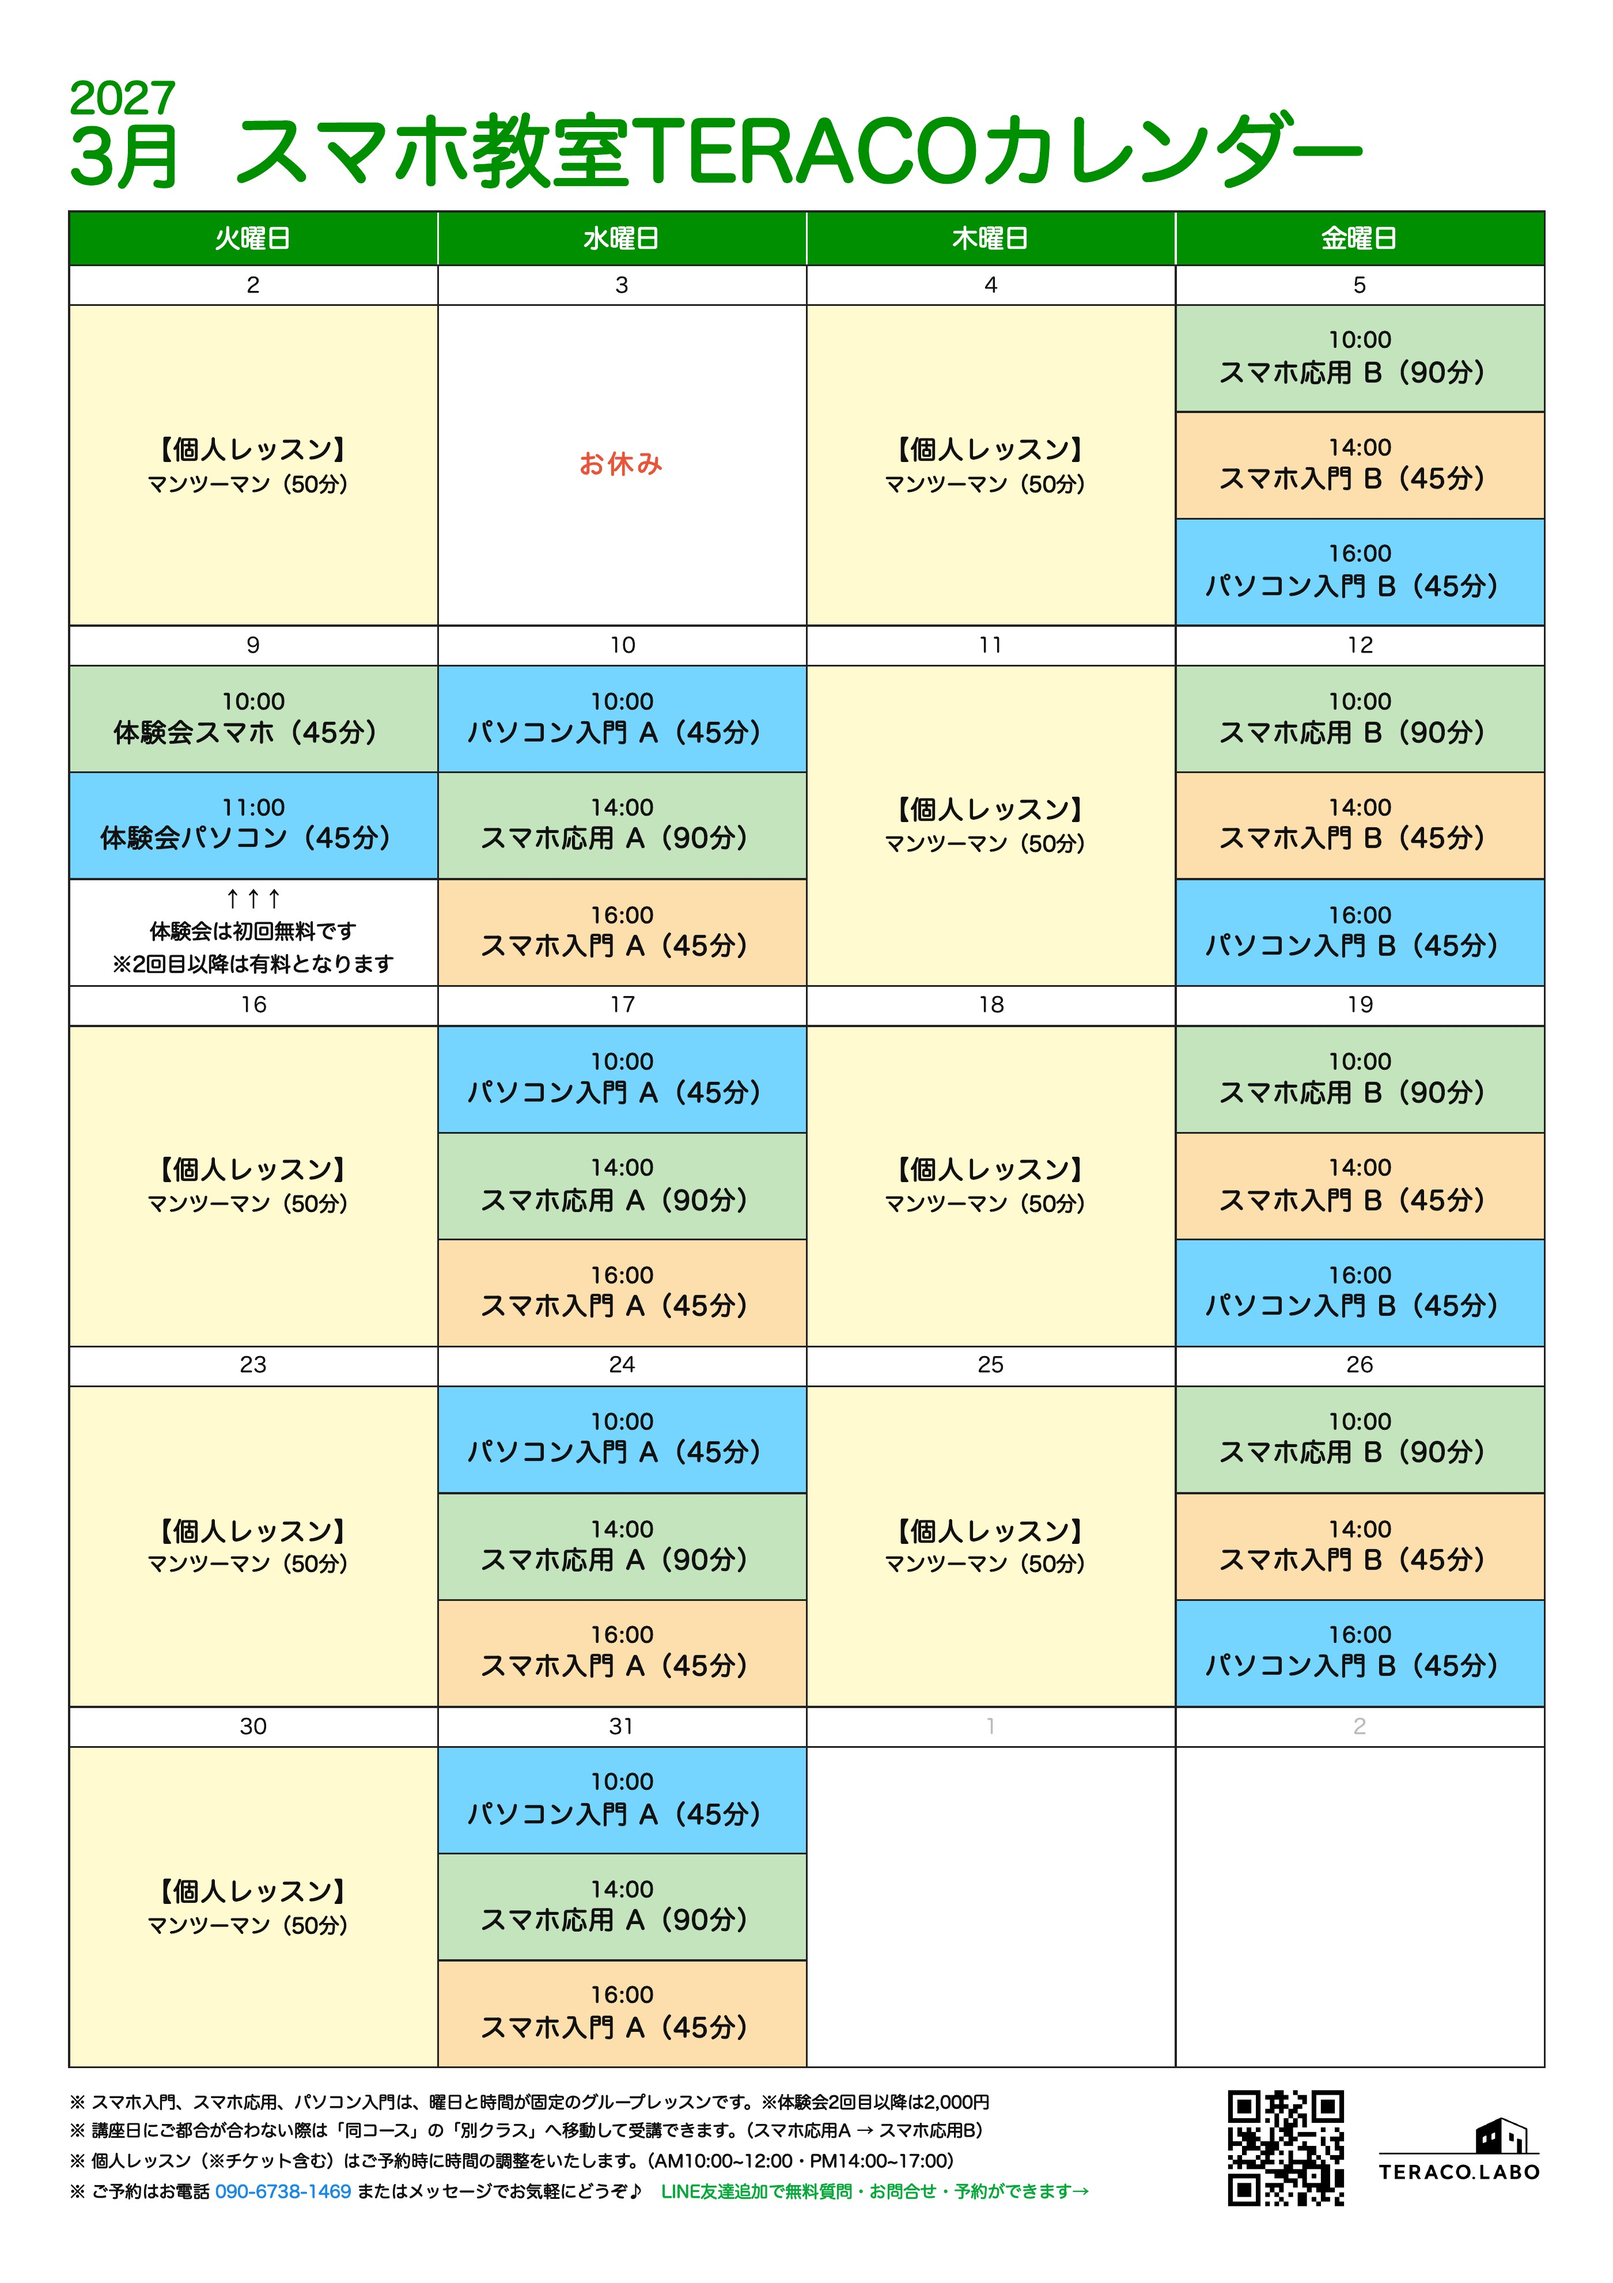
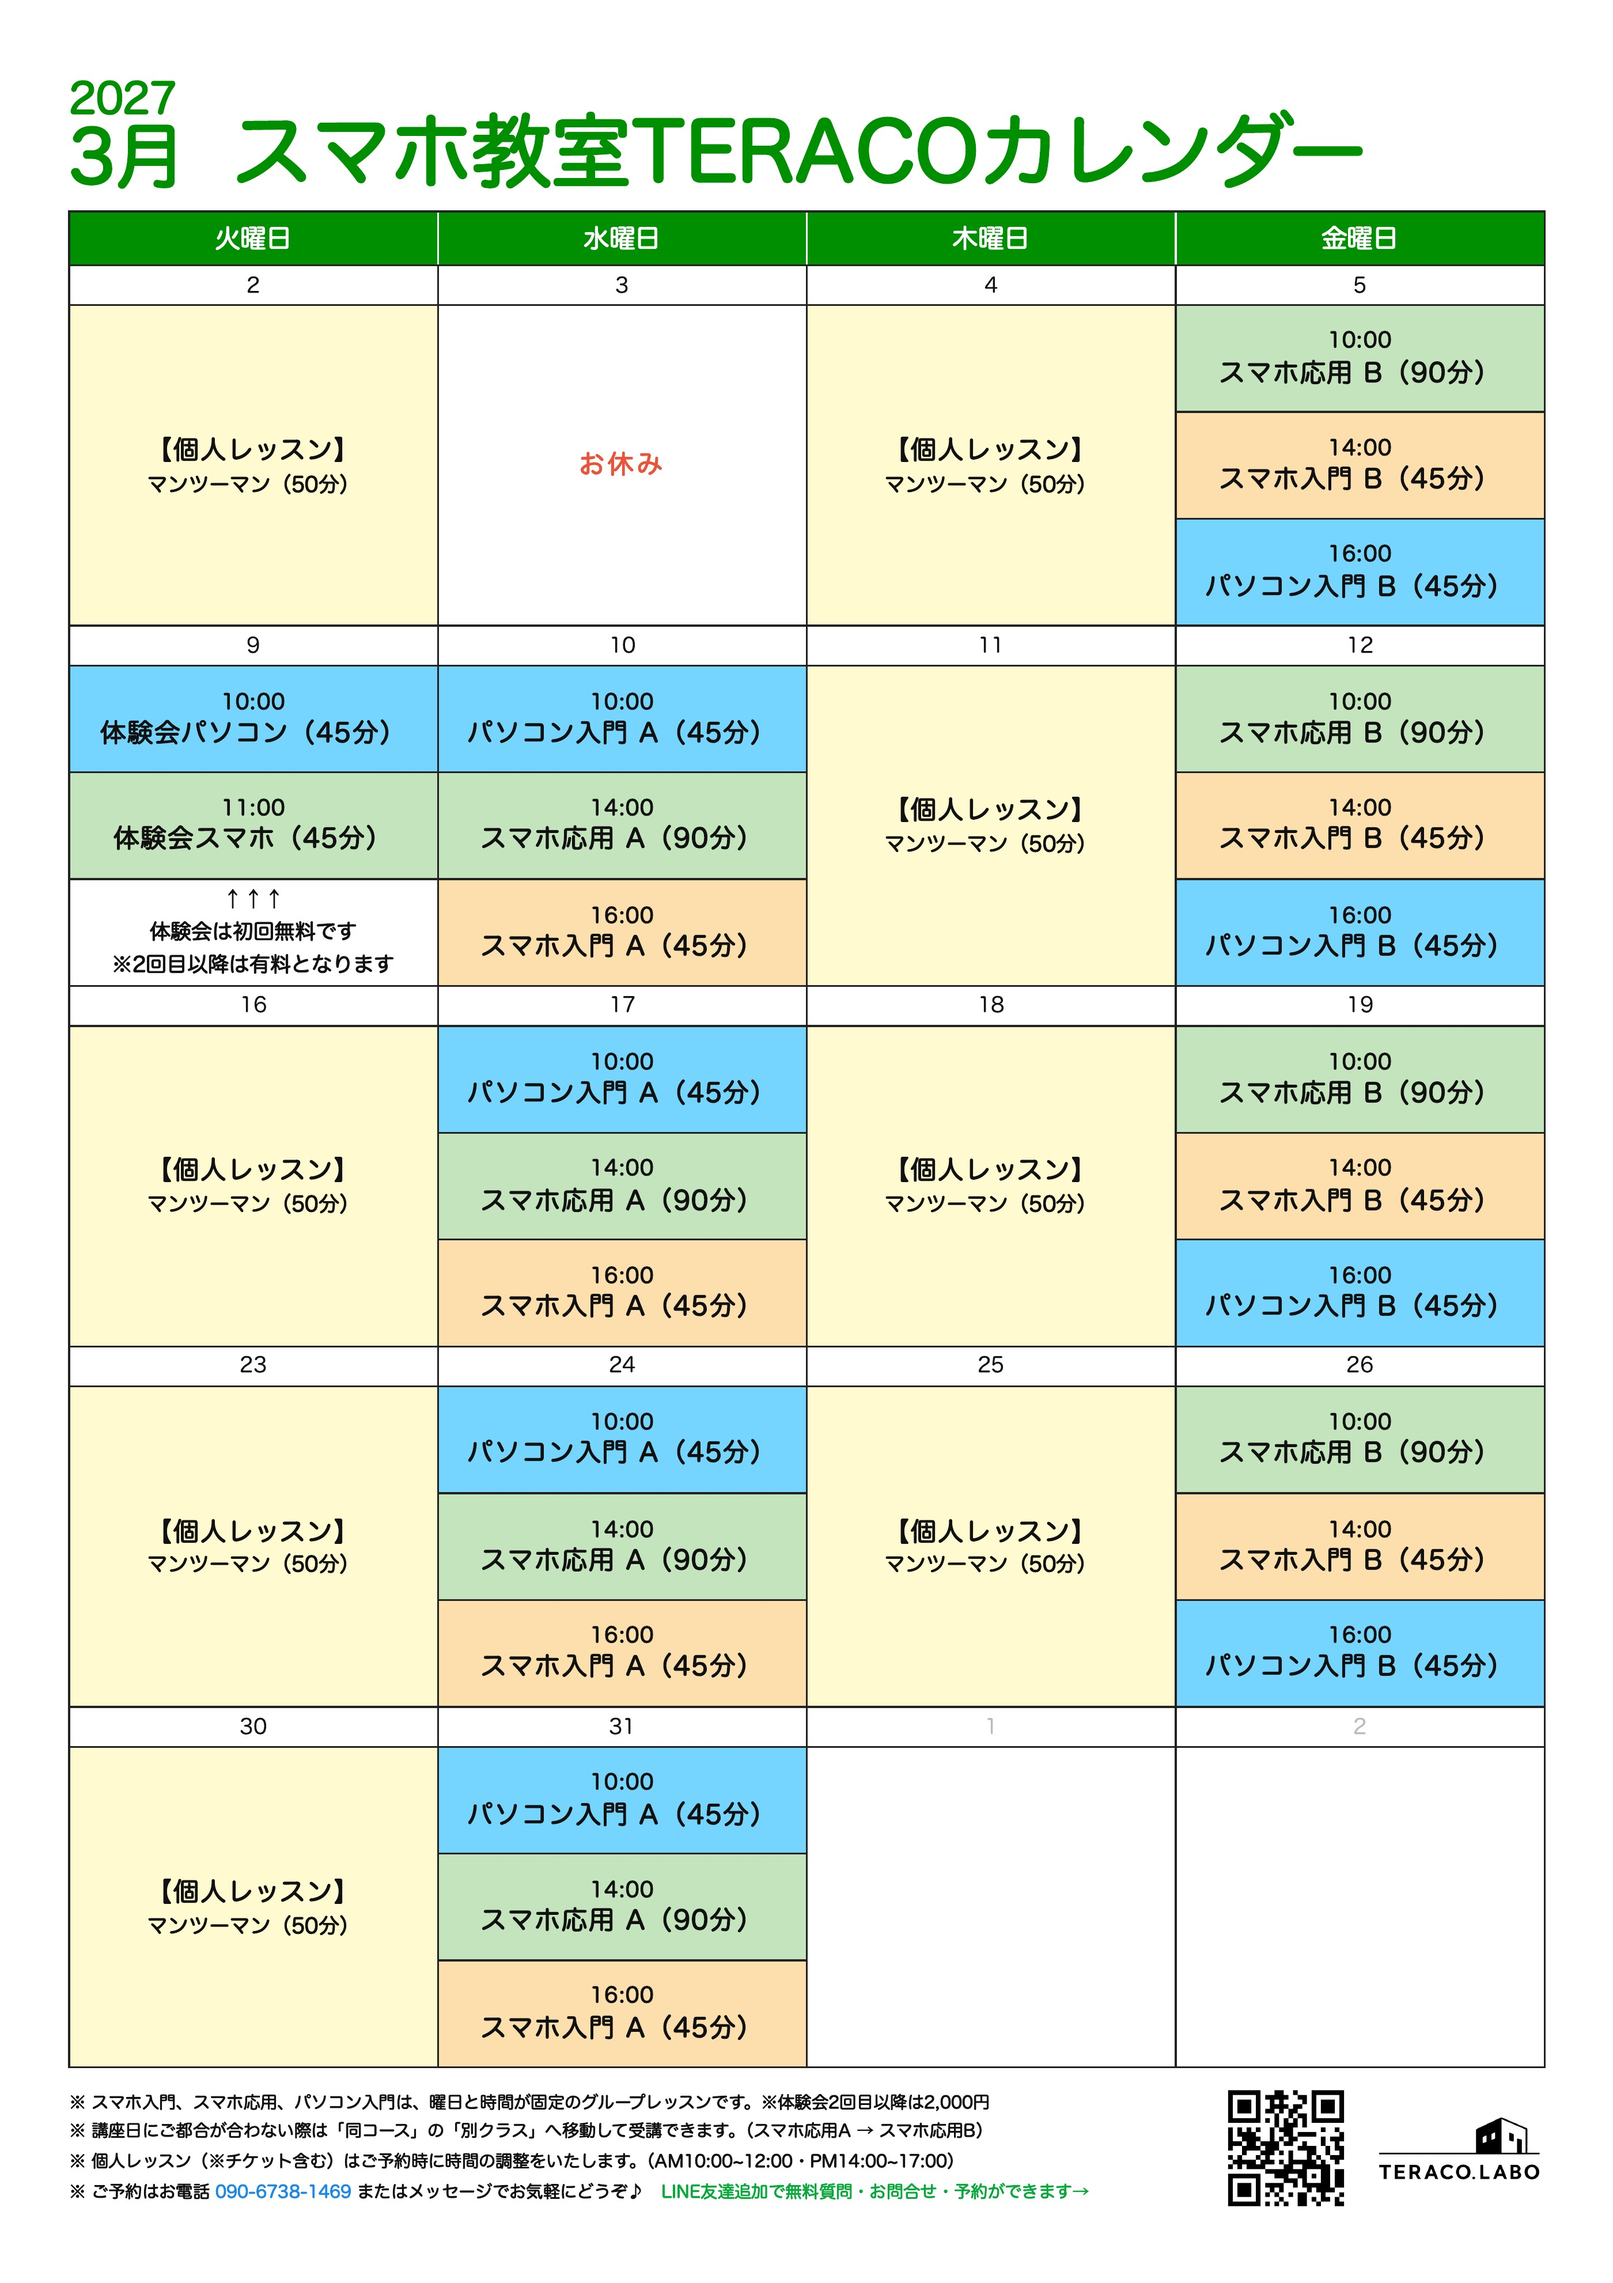
講座カレンダー11月〜3月：体験会を10時パソコン・11時スマホに入れ替え

Changed region(s): [[0.0311, 0.2793, 0.2796, 0.4035]]

diff --git a/pwa-reserve/calendar.html b/pwa-reserve/calendar.html
@@ -77,7 +77,7 @@ const IMG_MONTHS = window.TERACO_CAL_IMG_MONTHS || [];
 function showImage() {
   const [y, m] = month.split('-').map(Number), sheet = document.getElementById('sheet');
   sheet.classList.add('pic');
-  sheet.innerHTML = `<img src="calendar-img/calendar-${month}.jpg?v=5" alt="${y}年${m}月 スマホ教室TERACOカレンダー">`;
+  sheet.innerHTML = `<img src="calendar-img/calendar-${month}.jpg?v=6" alt="${y}年${m}月 スマホ教室TERACOカレンダー">`;
   document.title = `${y}年${m}月 スマホ教室TERACOカレンダー`;
   document.getElementById('msg').textContent = `${m}月の講座カレンダー`;
   history.replaceState(null, '', `?m=${month}`);
